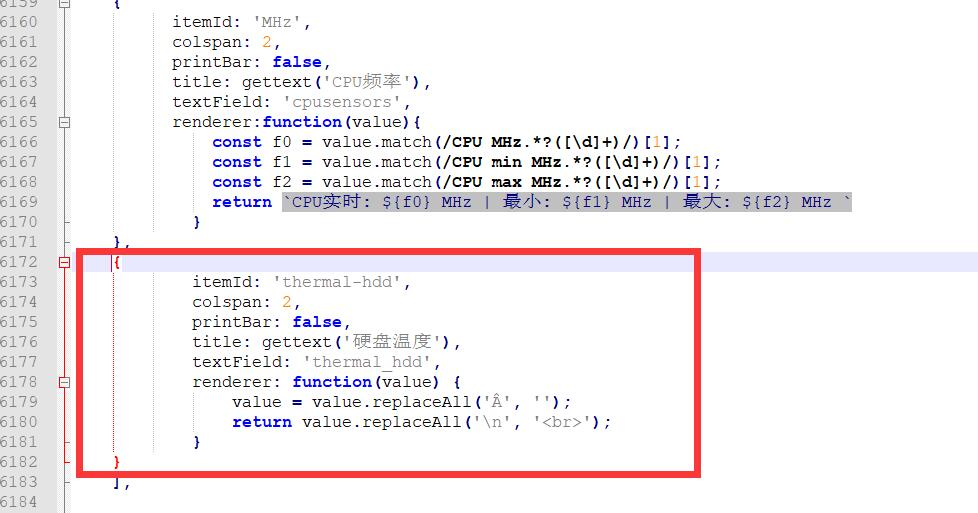
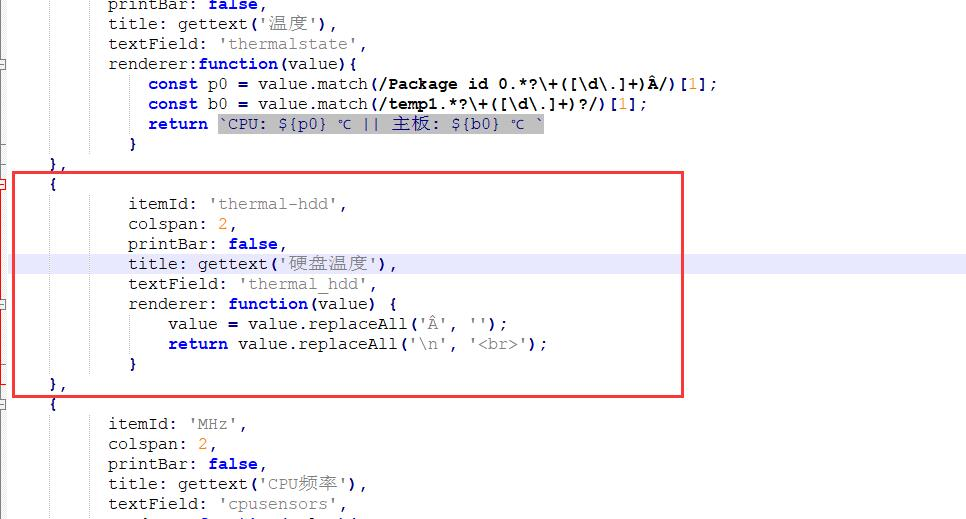
update

Changed region(s): [[0.0, 0.0, 0.8696, 1.0], [0.4969, 0.655, 0.559, 0.6862]]

diff --git a/README.md b/README.md
@@ -327,7 +327,7 @@ apt-get install hddtemp
 ```
 ![jpg](./pic/30.jpg)
 
-* /usr/share/pve-manager/js/pvemanagerlib.js 刚刚修改温度的下一行添加：
+* /usr/share/pve-manager/js/pvemanagerlib.js 刚刚修改CPU温度的下一行添加：
 
 ```
 	{
@@ -340,7 +340,7 @@ apt-get install hddtemp
                 value = value.replaceAll('Â', '');
                 return value.replaceAll('\n', '<br>');
             }
-	}
+	},
 ```
 ![jpg](./pic/31.jpg)
 
